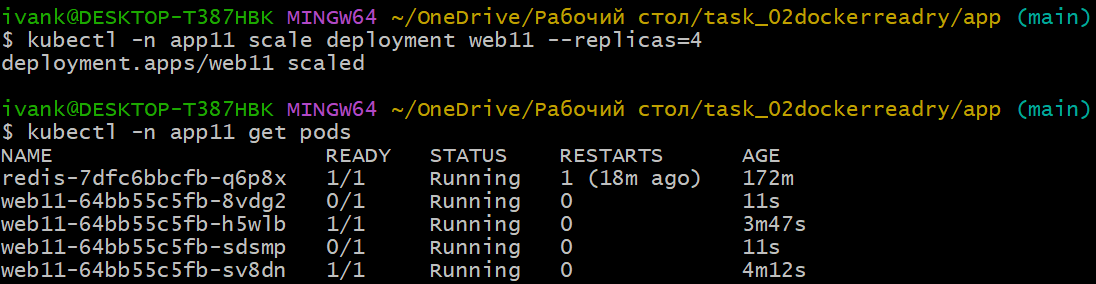
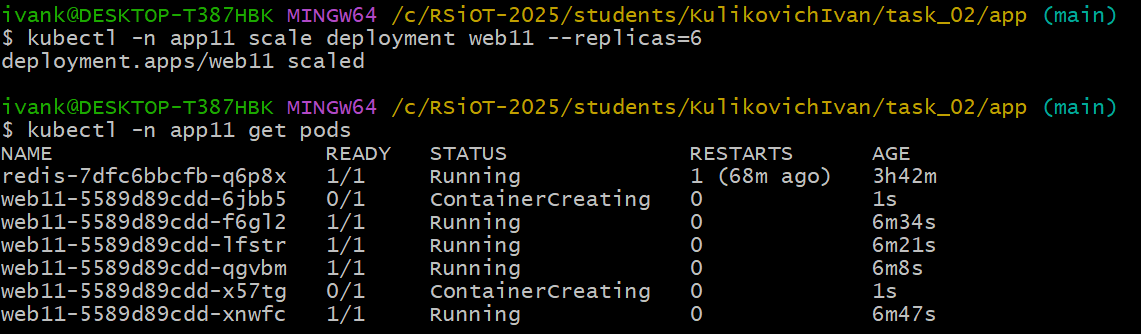
lab_02

diff --git a/students/KulikovichIvan/task_02/doc/README.md b/students/KulikovichIvan/task_02/doc/README.md
@@ -52,17 +52,15 @@ Resource Limits: CPU 150m, Memory 128Mi
 
 Установленный Minikube
 
-1. Сборка Docker образа
+1. Сборка Docker образа:
 docker build -t app-as-63-220015:stu-220015-v11 .
-2. Запуск Minikube кластера
-bash
+2. Запуск Minikube кластера:
 minikube start --driver=docker
 minikube addons enable ingress
-3. Загрузка образа в Minikube
+3. Загрузка образа в Minikube:
 minikube image load app-as-63-220015:stu-220015-v11
-4. Деплой в Kubernetes
+4. Деплой в Kubernetes:
 kubectl apply -f k8s/
-5. Проверка деплоя
 
 ## Проверки
 
@@ -118,11 +116,14 @@ kubectl -n app11 logs -l app=web11
 
 ### Увеличим количество реплик
 
-kubectl -n app11 scale deployment web11 --replicas=4
+kubectl -n app11 scale deployment web11 --replicas=6
 
 Проверим что изменилось:
+
 kubectl -n app11 get pods
-Добавились две реплики
+
+Добавились две реплики:
+
 ![replicas](./imgs/scale.png)
 
 ### Liveness/Readiness probes (health check)
